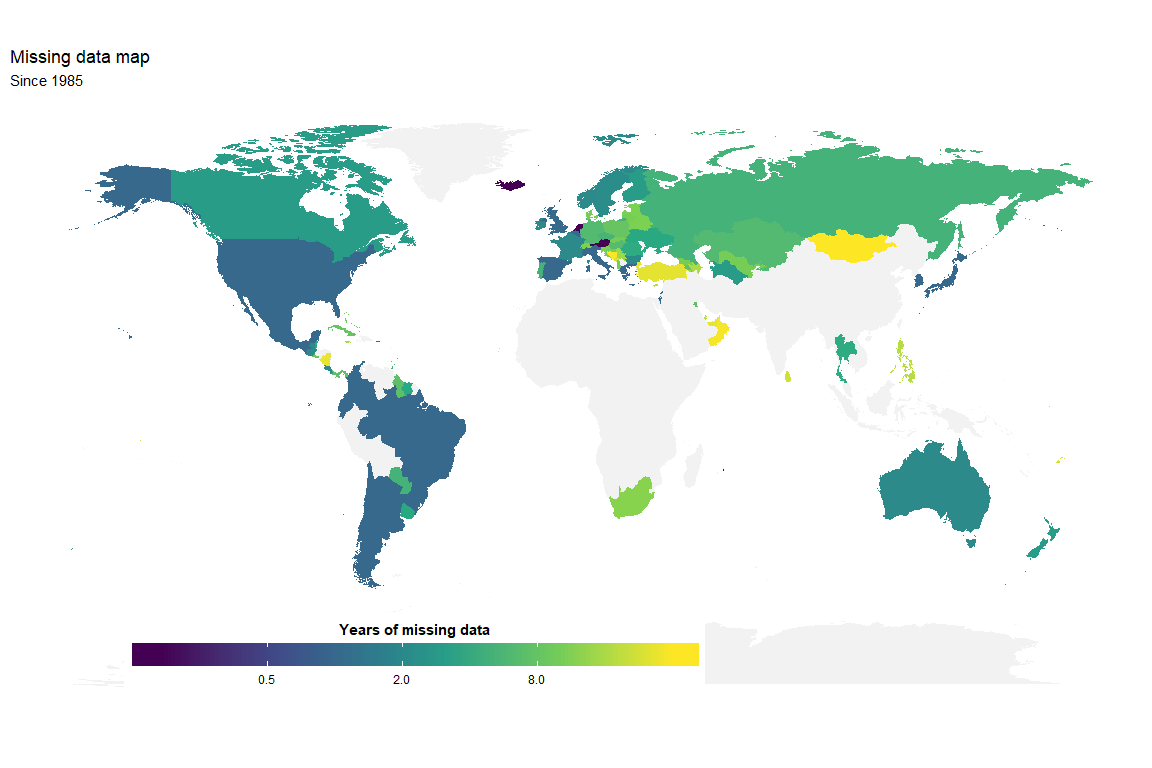
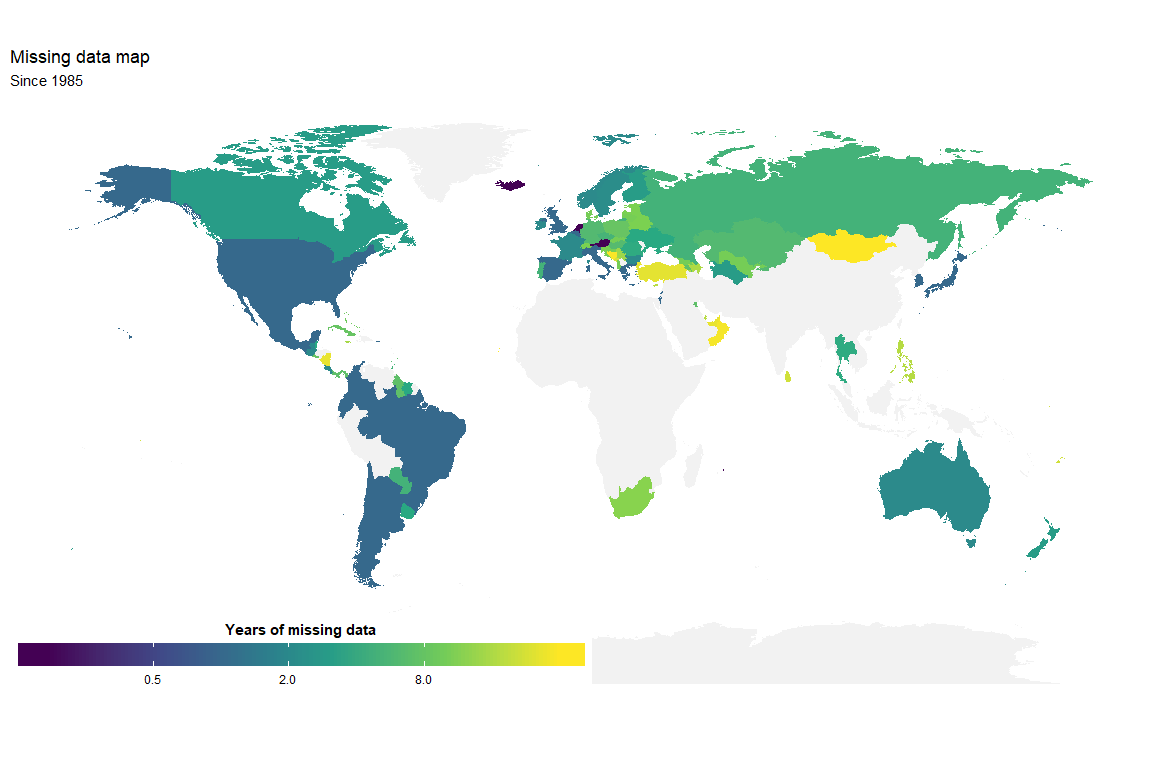
format

Changed region(s): [[0.0, 0.8125, 0.625, 0.9062]]

diff --git a/README.md b/README.md
@@ -259,7 +259,7 @@ Plot on map
                                                   direction = "horizontal",
                                                   nbin = 10)) +
       labs(title = "Missing data map", subtitle = "Since 1985") +
-      theme(legend.position = c(0.1,.1),
+      theme(legend.position = c(0,.1),
             legend.justification = "left",
             legend.key.width = unit(3,"cm"),
             panel.grid = element_blank(),
